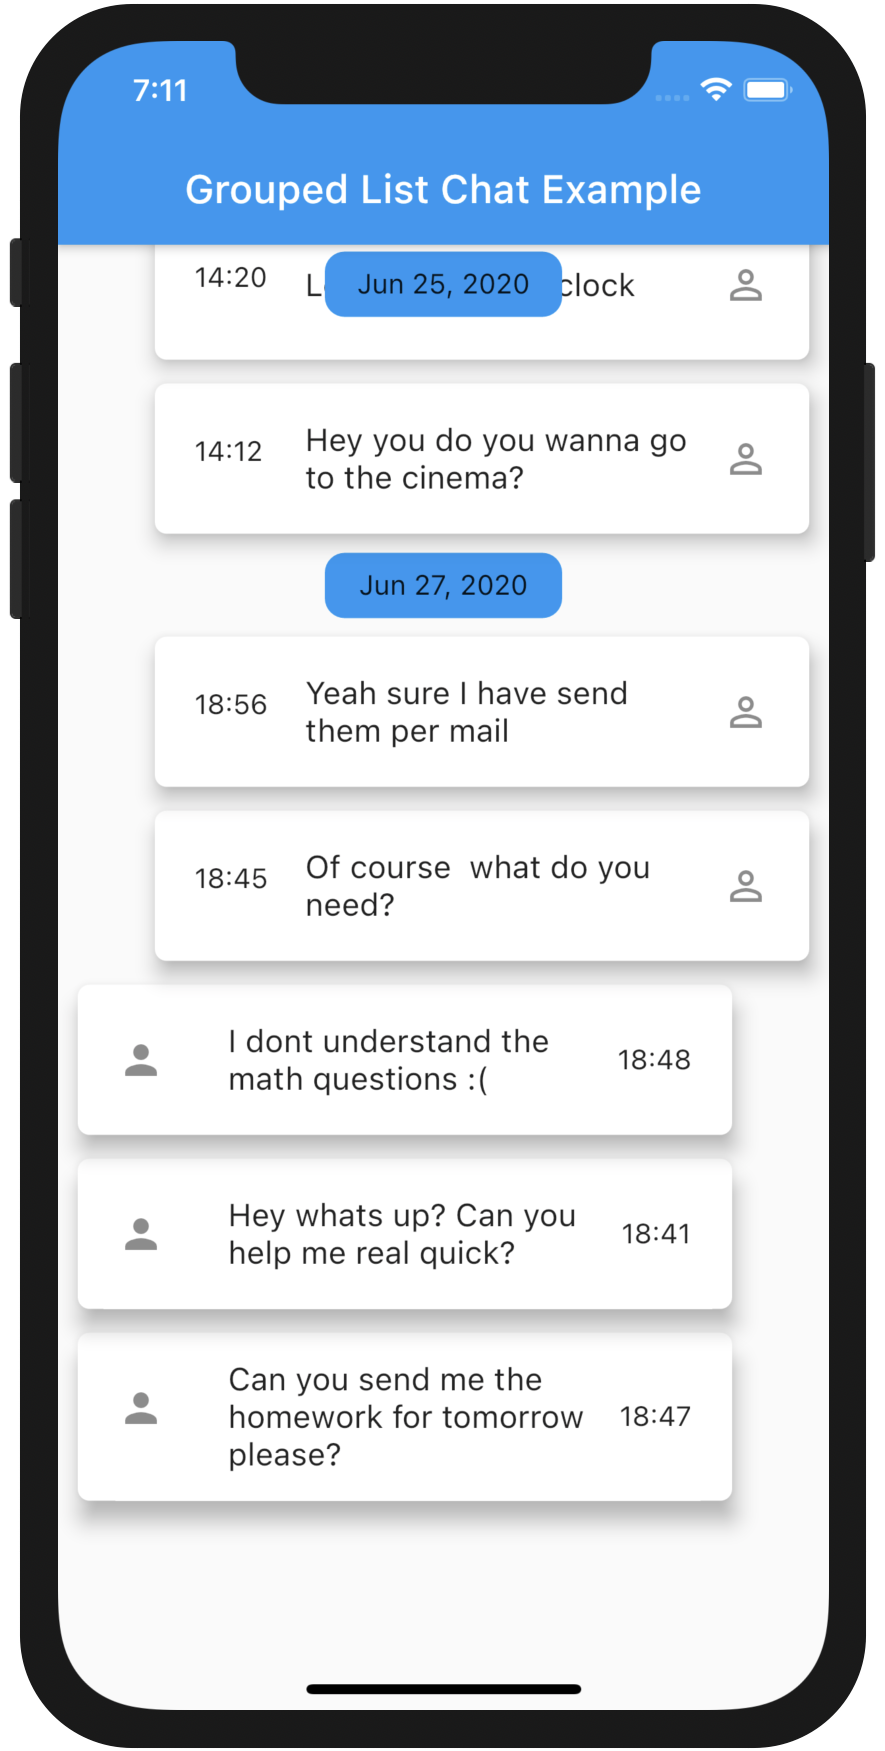
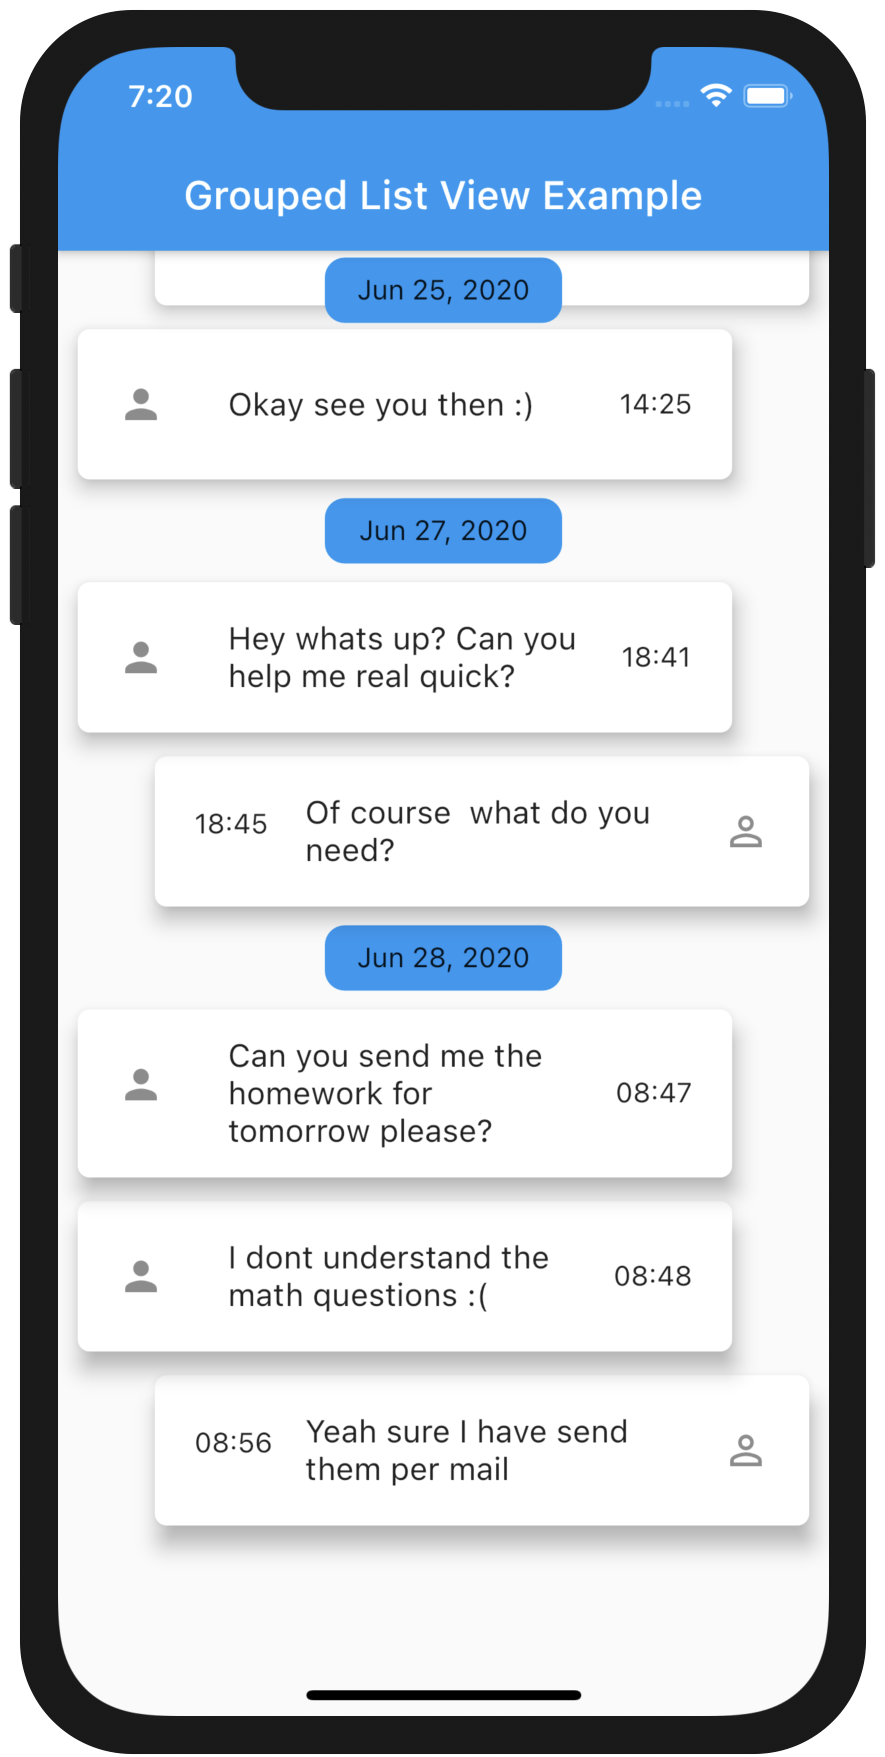
Fix chat example

diff --git a/example/lib/chat_example.dart b/example/lib/chat_example.dart
@@ -17,13 +17,13 @@ List _elements = <Element>[
   Element(DateTime(2020, 6, 27, 18, 41),
       'Hey whats up? Can you help me real quick?'),
   Element(DateTime(2020, 6, 27, 18, 45), 'Of course  what do you need?', true),
-  Element(DateTime(2020, 6, 27, 18, 47),
+  Element(DateTime(2020, 6, 28, 8, 47),
       'Can you send me the homework for tomorrow please?'),
   Element(
-    DateTime(2020, 6, 27, 18, 48),
+    DateTime(2020, 6, 28, 8, 48),
     'I dont understand the math questions :(',
   ),
-  Element(DateTime(2020, 6, 27, 18, 56), 'Yeah sure I have send them per mail',
+  Element(DateTime(2020, 6, 28, 8, 56), 'Yeah sure I have send them per mail',
       true),
 ];
 
@@ -38,7 +38,7 @@ class MyApp extends StatelessWidget {
       ),
       home: Scaffold(
         appBar: AppBar(
-          title: Text('Grouped List Chat Example'),
+          title: Text('Grouped List View Example'),
         ),
         body: Builder(
           builder: (context) => Column(
@@ -47,13 +47,12 @@ class MyApp extends StatelessWidget {
                 height: MediaQuery.of(context).size.height * 0.8,
                 child: GroupedListView<Element, DateTime>(
                   elements: _elements,
+                  order: GroupedListOrder.DESC,
                   reverse: true,
                   floatingHeader: true,
                   useStickyGroupSeparators: true,
                   groupBy: (Element element) => DateTime(
                       element.date.year, element.date.month, element.date.day),
-                  groupComparator: (v1, v2) => v2.compareTo(v1),
-                  itemComparator: (e1, e2) => e1.name.compareTo(e2.name),
                   groupHeaderBuilder: (Element element) => Container(
                     height: 40,
                     child: Align(

diff --git a/README.md b/README.md
@@ -61,7 +61,7 @@ import 'package:grouped_list/grouped_list.dart';
 #### Highlight - Chat Dialog
 
 Easy creation of chat dialogs.
-Just set the option `reverse` to `true`. A full example can be found in the examples.
+Just set the option `reverse` to `true` and `order` to `GroupedListOrder.DESC`. A full example can be found in the examples.
 The list will be scrolled to the end in the initial state and therefore scrolling will be against redeaing direction. 
 
 
